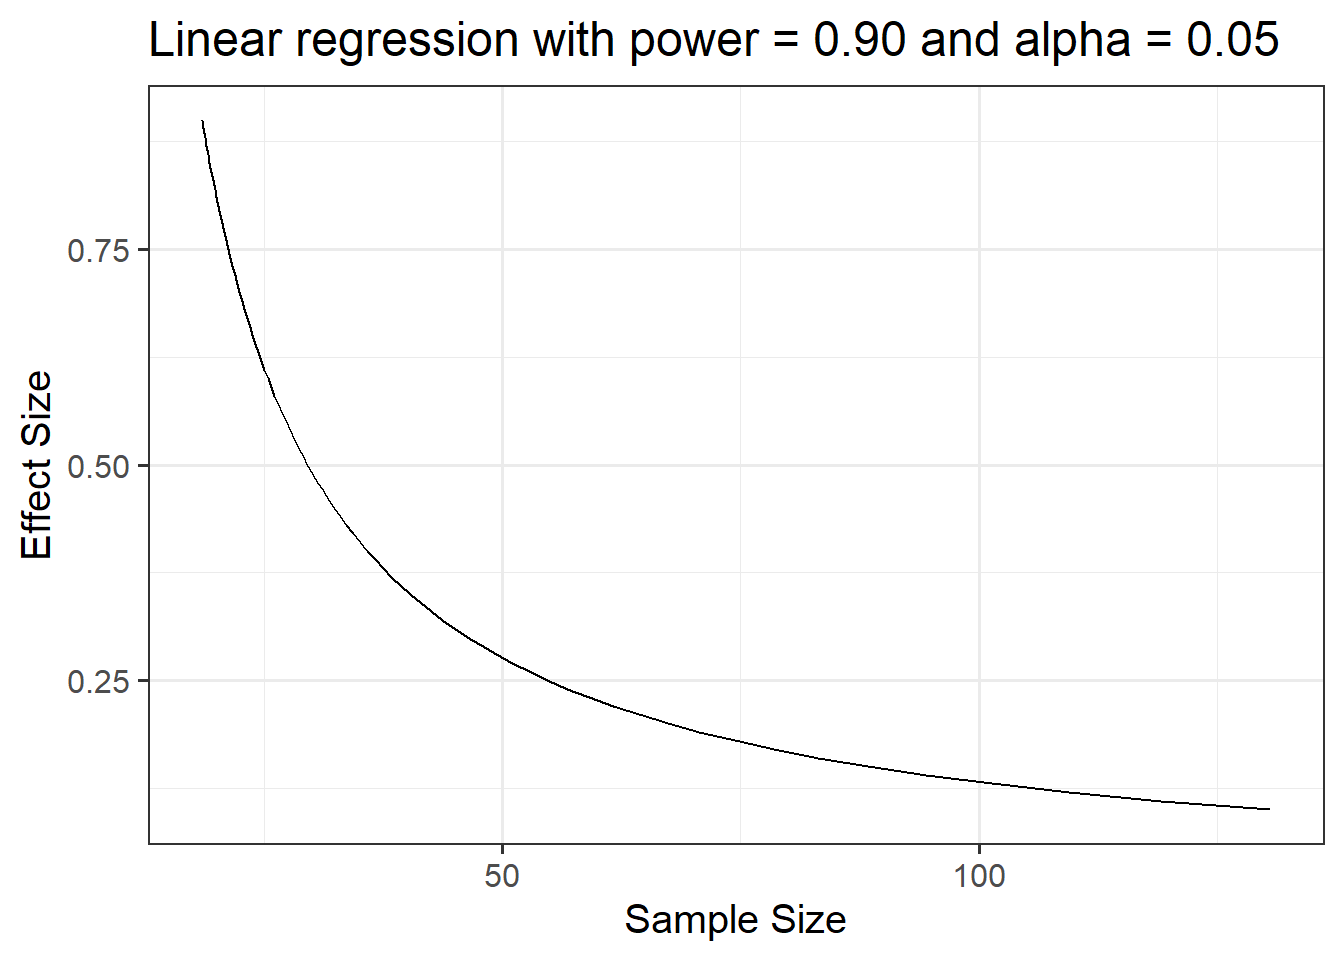
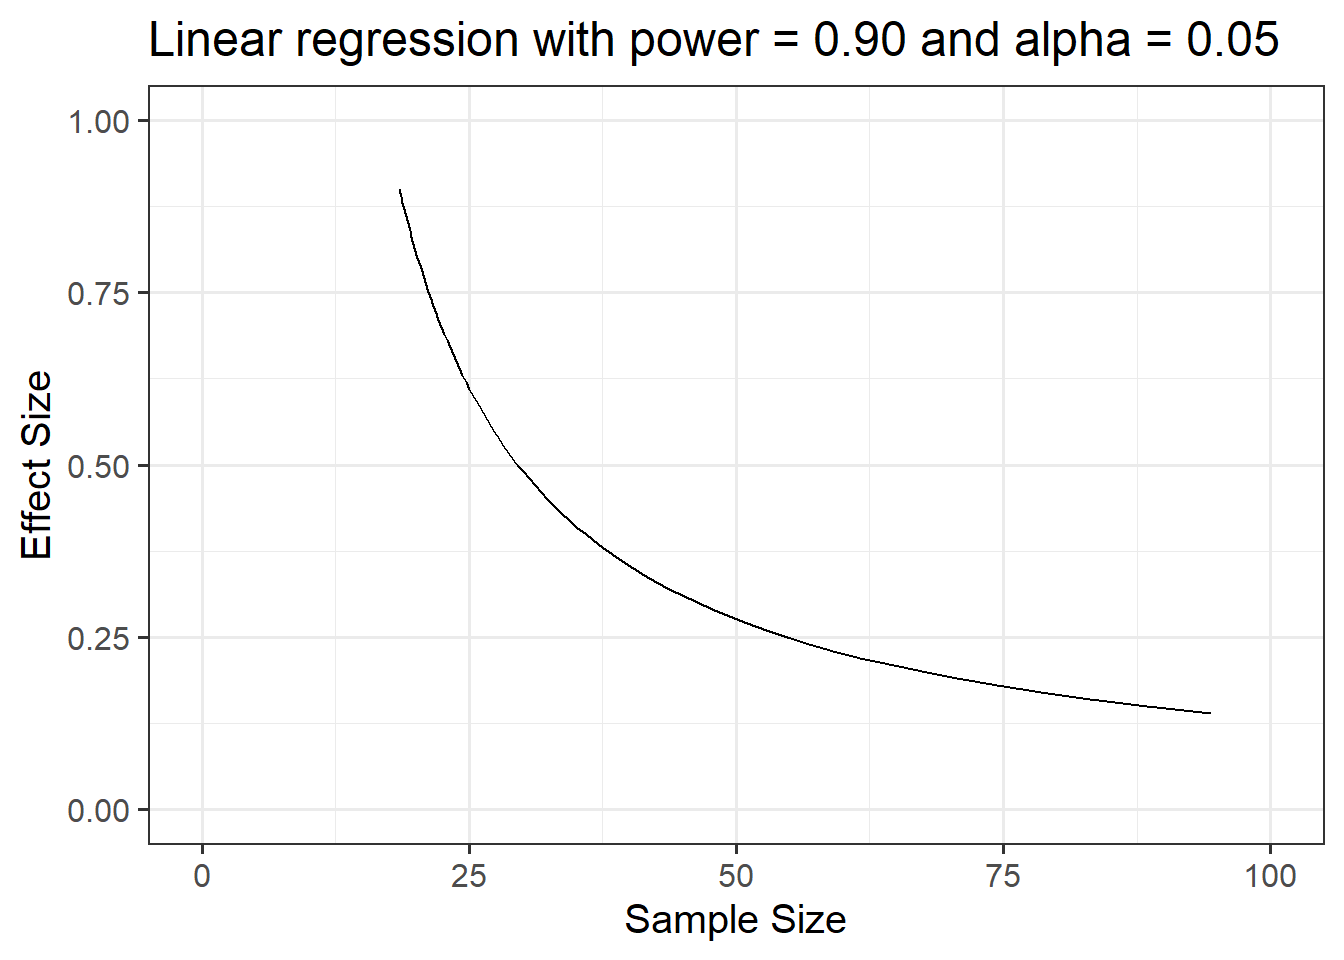
s2 w8 lab done
just need to push on Fri

diff --git a/docs/2223/labs/2_08_power.html b/docs/2223/labs/2_08_power.html
@@ -239,7 +239,10 @@ if(f.classList.contains('fa-chevron-circle-right')) {
     <a class="dropdown-item" href="./2_07_glm2.html">
  <span class="dropdown-text">2/7: More Logistic Regression</span></a>
   </li>  
-        <li class="dropdown-header">2/8: Sample Size &amp; Power Analysis</li>
+        <li>
+    <a class="dropdown-item" href="./2_08_power.html">
+ <span class="dropdown-text">2/8: Sample Size &amp; Power Analysis</span></a>
+  </li>  
         <li class="dropdown-header">2/9: Write Up &amp; Recap</li>
         <li class="dropdown-header">2/10: Mock Exam</li>
     </ul>
@@ -279,7 +282,6 @@ if(f.classList.contains('fa-chevron-circle-right')) {
 <i class="fa fa-graduation-cap"></i> Learning Objectives</h3>
 <p>At the end of this lab, you will:</p>
 <ol type="1">
-<li>Understand differences between Type I and Type II errors</li>
 <li>Understand how varying factors can influence power</li>
 <li>Be able to conduct power analyses using the <code>pwr</code> package</li>
 </ol></section><section id="what-you-need" class="level3"><h3 class="anchored" data-anchor-id="what-you-need">
@@ -1326,7 +1328,7 @@ Hint
 <span>    <span class="fu"><a href="https://dplyr.tidyverse.org/reference/summarise.html">summarise</a></span><span class="op">(</span></span>
 <span>       n <span class="op">=</span> <span class="fu"><a href="https://dplyr.tidyverse.org/reference/context.html">n</a></span><span class="op">(</span><span class="op">)</span>,</span>
 <span>       Avg_recall <span class="op">=</span> <span class="fu"><a href="https://rdrr.io/r/base/mean.html">mean</a></span><span class="op">(</span><span class="va">perc_recall</span><span class="op">)</span><span class="op">)</span> <span class="op"><a href="https://magrittr.tidyverse.org/reference/pipe.html">%&gt;%</a></span></span>
-<span>    <span class="fu"><a href="https://rdrr.io/pkg/knitr/man/kable.html">kable</a></span><span class="op">(</span>caption <span class="op">=</span> <span class="st">"Descriptive Statistics"</span><span class="op">)</span> <span class="op"><a href="https://magrittr.tidyverse.org/reference/pipe.html">%&gt;%</a></span></span>
+<span>    <span class="fu"><a href="https://rdrr.io/pkg/knitr/man/kable.html">kable</a></span><span class="op">(</span>caption <span class="op">=</span> <span class="st">"Descriptive Statistics"</span>, digits <span class="op">=</span> <span class="fl">2</span><span class="op">)</span> <span class="op"><a href="https://magrittr.tidyverse.org/reference/pipe.html">%&gt;%</a></span></span>
 <span>    <span class="fu"><a href="https://rdrr.io/pkg/kableExtra/man/kable_styling.html">kable_styling</a></span><span class="op">(</span><span class="op">)</span></span>
 <span></span>
 <span><span class="va">recall_stats</span></span></code></pre></div>
@@ -1344,12 +1346,12 @@ Hint
 <tr>
 <td style="text-align:left;"> rollercoaster </td>
    <td style="text-align:right;"> 53 </td>
-   <td style="text-align:right;"> 50.11124 </td>
+   <td style="text-align:right;"> 50.11 </td>
   </tr>
 <tr>
 <td style="text-align:left;"> meditation </td>
    <td style="text-align:right;"> 47 </td>
-   <td style="text-align:right;"> 59.46140 </td>
+   <td style="text-align:right;"> 59.46 </td>
   </tr>
 </tbody>
 </table>
@@ -1365,11 +1367,16 @@ Hint
 <div class="cell-output-display">
 <div id="fig-recall-desc1" class="quarto-figure quarto-figure-center anchored">
 <figure class="figure"><p><img src="2_08_power_files/figure-html/fig-recall-desc1-1.png" class="img-fluid figure-img" width="672"></p>
-<p></p><figcaption class="figure-caption">Figure&nbsp;1: Association between Age, Intervention, and Recall</figcaption><p></p>
+<p></p><figcaption class="figure-caption">Figure&nbsp;1: Association between Recall, Age, and Intervention</figcaption><p></p>
 </figure>
 </div>
 </div>
 </div>
+<p>From <a href="#tbl-cog-descript">Table&nbsp;1</a> and <a href="#fig-recall-desc1">Figure&nbsp;1</a>, we can see:</p>
+<ul>
+<li>there were more participants in the rollercoaster condition than meditation</li>
+<li>participants in the meditation condition had higher recall scores than those in the rollercoaster condition, and less variability in scores</li>
+</ul>
 </div>
 <p class="solution-end">
 </p>
@@ -1404,7 +1411,7 @@ Hint
 <code>v</code> = denominator degrees of freedom = <span class="math inline">\(v = n-k-1\)</span>
 </li>
 <li>
-<code>f2</code> = effect size. Cohen suggests <code>f2</code> values of <span class="math inline">\(.02\)</span> (small), <span class="math inline">\(.15\)</span> (moderate), and <span class="math inline">\(.35\)</span> (large)</li>
+<code>f2</code> = effect size. Cohen suggests effect size cut-off values of <span class="math inline">\(.02\)</span> (small), <span class="math inline">\(.15\)</span> (moderate), and <span class="math inline">\(.35\)</span> (large)</li>
 <li>
 <code>sig.level</code> = significance level</li>
 <li>
@@ -1444,6 +1451,7 @@ Hint
 Question 4
 </div>
 <div class="question-body">
+<p>Using the same <span class="math inline">\(\alpha\)</span> (.05) and power, what would be the sample size if you assumed effect size to be medium?</p>
 <div class="callout-tip callout callout-style-simple callout-captioned">
 <div class="callout-header d-flex align-content-center" data-bs-toggle="collapse" data-bs-target=".callout-3-contents" aria-controls="callout-3" aria-expanded="false" aria-label="Toggle callout">
 <div class="callout-icon-container">
@@ -1468,7 +1476,7 @@ Hint
 <code>v</code> = denominator degrees of freedom = <span class="math inline">\(v = n-k-1\)</span>
 </li>
 <li>
-<code>f2</code> = effect size. Cohen suggests <code>f2</code> values of <span class="math inline">\(.02\)</span> (small), <span class="math inline">\(.15\)</span> (moderate), and <span class="math inline">\(.35\)</span> (large)</li>
+<code>f2</code> = effect size. Cohen suggests effect size cut-off values of <span class="math inline">\(.02\)</span> (small), <span class="math inline">\(.15\)</span> (moderate), and <span class="math inline">\(.35\)</span> (large)</li>
 <li>
 <code>sig.level</code> = significance level</li>
 <li>
@@ -1477,7 +1485,6 @@ Hint
 </div>
 </div>
 </div>
-<p>Using the same <span class="math inline">\(\alpha\)</span> (.05) and power, what would be the sample size if you assumed effect size to be medium?</p>
 </div>
 <p class="question-end">
 </p>
@@ -1534,7 +1541,7 @@ Hint
 <code>v</code> = denominator degrees of freedom = <span class="math inline">\(v = n-k-1\)</span>
 </li>
 <li>
-<code>f2</code> = effect size. Cohen suggests <code>f2</code> values of <span class="math inline">\(.02\)</span> (small), <span class="math inline">\(.15\)</span> (moderate), and <span class="math inline">\(.35\)</span> (large)</li>
+<code>f2</code> = effect size. Cohen suggests effect size cut-off values of <span class="math inline">\(.02\)</span> (small), <span class="math inline">\(.15\)</span> (moderate), and <span class="math inline">\(.35\)</span> (large)</li>
 <li>
 <code>sig.level</code> = significance level</li>
 <li>
@@ -1608,17 +1615,9 @@ Residual standard error: 5.494 on 98 degrees of freedom
 Multiple R-squared:  0.1658,    Adjusted R-squared:  0.1573 
 F-statistic: 19.48 on 1 and 98 DF,  p-value: 2.614e-05</code></pre>
 </div>
-<div class="sourceCode" id="cb20"><pre class="downlit sourceCode r"><code class="sourceCode R"><span><span class="va">recall_mdl1</span><span class="op">$</span><span class="va">r.squared</span></span></code></pre></div>
-<div class="cell-output cell-output-stdout">
-<pre><code>NULL</code></pre>
 </div>
-<div class="sourceCode" id="cb22"><pre class="downlit sourceCode r"><code class="sourceCode R"><span><span class="va">recall_mdl1</span><span class="op">$</span><span class="va">adj.r.squared</span></span></code></pre></div>
-<div class="cell-output cell-output-stdout">
-<pre><code>NULL</code></pre>
-</div>
-</div>
-<p>We can use either R-squared or Adjusted R Squared since we only have a single predictor. To be conservative, we might want to use the adjusted R-squared: <span class="math inline">\(R^2 = 0.16\)</span>.</p>
-<p>The model explains 16% of the variance in recall scores.</p>
+<p>We can see both the R-squared or Adjusted R Squared from the model <code><a href="https://rdrr.io/r/base/summary.html">summary()</a></code> output. We can use either since we only have a single predictor. To be conservative, we might want to use the adjusted R-squared (0.16).</p>
+<p>The model, with Age as a single predictor, explained approximately 16% of the variance in recall scores.</p>
 </div>
 <p class="solution-end">
 </p>
@@ -1641,7 +1640,7 @@ Hint
 </div>
 <div id="callout-5" class="callout-5-contents callout-collapse collapse">
 <div class="callout-body-container callout-body">
-<p>consider using <code><a href="https://ggplot2.tidyverse.org/reference/geom_smooth.html">geom_smooth()</a></code> to superimpose the best-fitting line describing the association of interest for each intervention group.</p>
+<p>Consider using <code><a href="https://ggplot2.tidyverse.org/reference/geom_smooth.html">geom_smooth()</a></code> to superimpose the best-fitting line describing the association of interest for each intervention group.</p>
 </div>
 </div>
 </div>
@@ -1653,7 +1652,7 @@ Hint
 </div>
 <div id="sol-body-9" class="solution-body" style="display: none;">
 <div class="cell">
-<div class="sourceCode" id="cb24"><pre class="downlit sourceCode r"><code class="sourceCode R"><span><span class="va">recall_plt2</span> <span class="op">&lt;-</span> <span class="fu"><a href="https://ggplot2.tidyverse.org/reference/ggplot.html">ggplot</a></span><span class="op">(</span>data <span class="op">=</span> <span class="va">recdata</span>, <span class="fu"><a href="https://ggplot2.tidyverse.org/reference/aes.html">aes</a></span><span class="op">(</span>x <span class="op">=</span> <span class="va">age</span>, y <span class="op">=</span> <span class="va">perc_recall</span>, color <span class="op">=</span> <span class="va">group</span><span class="op">)</span><span class="op">)</span> <span class="op">+</span></span>
+<div class="sourceCode" id="cb20"><pre class="downlit sourceCode r"><code class="sourceCode R"><span><span class="va">recall_plt2</span> <span class="op">&lt;-</span> <span class="fu"><a href="https://ggplot2.tidyverse.org/reference/ggplot.html">ggplot</a></span><span class="op">(</span>data <span class="op">=</span> <span class="va">recdata</span>, <span class="fu"><a href="https://ggplot2.tidyverse.org/reference/aes.html">aes</a></span><span class="op">(</span>x <span class="op">=</span> <span class="va">age</span>, y <span class="op">=</span> <span class="va">perc_recall</span>, color <span class="op">=</span> <span class="va">group</span><span class="op">)</span><span class="op">)</span> <span class="op">+</span></span>
 <span>    <span class="fu"><a href="https://ggplot2.tidyverse.org/reference/geom_point.html">geom_point</a></span><span class="op">(</span><span class="op">)</span> <span class="op">+</span> </span>
 <span>    <span class="fu"><a href="https://ggplot2.tidyverse.org/reference/geom_smooth.html">geom_smooth</a></span><span class="op">(</span>method <span class="op">=</span> <span class="st">"lm"</span>, se <span class="op">=</span> <span class="cn">FALSE</span><span class="op">)</span> <span class="op">+</span> </span>
 <span>    <span class="fu"><a href="https://ggplot2.tidyverse.org/reference/labs.html">labs</a></span><span class="op">(</span>x <span class="op">=</span> <span class="st">"Age (in years)"</span>, y <span class="op">=</span> <span class="st">"Recall (%)"</span>, title <span class="op">=</span> <span class="st">"Scatterplot displaying the association between age, intervention group, and recall"</span><span class="op">)</span></span>
@@ -1686,7 +1685,7 @@ Question 8
 </div>
 <div id="sol-body-10" class="solution-body" style="display: none;">
 <div class="cell">
-<div class="sourceCode" id="cb25"><pre class="downlit sourceCode r"><code class="sourceCode R"><span><span class="co"># restricted model m - number of predictors &amp; R-squared</span></span>
+<div class="sourceCode" id="cb21"><pre class="downlit sourceCode r"><code class="sourceCode R"><span><span class="co"># restricted model m - number of predictors &amp; R-squared</span></span>
 <span><span class="va">k</span> <span class="op">&lt;-</span> <span class="fl">1</span></span>
 <span><span class="va">R2m</span> <span class="op">&lt;-</span> <span class="fl">0.16</span></span>
 <span></span>
@@ -1730,7 +1729,7 @@ Question 9
 </div>
 <div id="sol-body-11" class="solution-body" style="display: none;">
 <div class="cell">
-<div class="sourceCode" id="cb27"><pre class="downlit sourceCode r"><code class="sourceCode R"><span><span class="co"># restricted model m - number of predictors &amp; R-squared</span></span>
+<div class="sourceCode" id="cb23"><pre class="downlit sourceCode r"><code class="sourceCode R"><span><span class="co"># restricted model m - number of predictors &amp; R-squared</span></span>
 <span><span class="va">k</span> <span class="op">&lt;-</span> <span class="fl">1</span></span>
 <span><span class="va">R2m</span> <span class="op">&lt;-</span> <span class="fl">0.16</span></span>
 <span></span>
@@ -1764,32 +1763,14 @@ Question 9
 Question 10
 </div>
 <div class="question-body">
-<p>Visualise the joint relationship between sample size and effect size in Q9 by producing a power curve.</p>
-<p>To do so, apply the following computation:</p>
+<p>A colleague produces a visualisation of the joint relationship between sample size and effect size via a power curve (with coloured lines representing large, medium, and small effect sizes).</p>
+<p>Based on this, what feedback/comments might you share with them regarding sample size for their prospective study, and its relation to effect size?</p>
 <div class="cell">
-<div class="sourceCode" id="cb29"><pre class="downlit sourceCode r"><code class="sourceCode R"><span><span class="fu"><a href="https://purrr.tidyverse.org/reference/map.html">map_dbl</a></span><span class="op">(</span><span class="va">es</span>, </span>
-<span>        <span class="op">~</span> <span class="fu"><a href="https://rdrr.io/pkg/pwr/man/pwr.f2.test.html">pwr.f2.test</a></span><span class="op">(</span>u <span class="op">=</span> , f2 <span class="op">=</span> <span class="va">.x</span>, sig.level <span class="op">=</span> <span class="fl">0.05</span>, power <span class="op">=</span> <span class="fl">0.9</span><span class="op">)</span><span class="op">$</span><span class="va">v</span><span class="op">)</span></span></code></pre></div>
-</div>
-<div class="callout-tip callout callout-style-simple callout-captioned">
-<div class="callout-header d-flex align-content-center" data-bs-toggle="collapse" data-bs-target=".callout-6-contents" aria-controls="callout-6" aria-expanded="false" aria-label="Toggle callout">
-<div class="callout-icon-container">
-<i class="callout-icon"></i>
-</div>
-<div class="callout-caption-container flex-fill">
-Hint
-</div>
-<div class="callout-btn-toggle d-inline-block border-0 py-1 ps-1 pe-0 float-end"><i class="callout-toggle"></i></div>
-</div>
-<div id="callout-6" class="callout-6-contents callout-collapse collapse">
-<div class="callout-body-container callout-body">
-<p>There are a number of steps we need to take to produce a power curve:</p>
-<ul>
-<li>First, we create a tibble containing a sequence <code>seq</code> of effect sizes to investigate, ranging for example from 0.1 to 0.9 in steps of 0.01: <code>es = seq(.1, .9, .01)</code>.</li>
-<li>Then, for each value in that sequence, we want to apply the computation given to us above. This takes each element of <code>es</code>, one at a time, and then passes it to the computation specified afterwards, into the slot <code>.x</code>. Then, function <code>pwr.f2.test</code> is applied and we want to extract the value of <code>v</code>.</li>
-<li>Next, we want to compute <span class="math inline">\(n\)</span> from <code>v</code>, using <span class="math inline">\(n - K - 1 = \text v\)</span> so that <span class="math inline">\(n = \text v + K + 1\)</span>
-</li>
-<li>Lastly we can use <code><a href="https://ggplot2.tidyverse.org/reference/ggplot.html">ggplot()</a></code> to visualise the sample size required to find each effect size with sample size on our x-axis, and effect size on the y-axis</li>
-</ul>
+<div class="cell-output-display">
+<div id="fig-pcurve" class="quarto-figure quarto-figure-center anchored">
+<figure class="figure"><p><img src="2_08_power_files/figure-html/fig-pcurve-1.png" class="img-fluid figure-img" width="672"></p>
+<p></p><figcaption class="figure-caption">Figure&nbsp;3: Linear Regression with power = 0.90 and alpha = 0.05</figcaption><p></p>
+</figure>
 </div>
 </div>
 </div>
@@ -1800,60 +1781,9 @@ Hint
 <span id="sol-start-12" class="fa-solid fa-circle-arrow-right solution-icon clickable" onclick="toggle_visibility('sol-body-12', 'sol-start-12')"> Solution </span>
 </div>
 <div id="sol-body-12" class="solution-body" style="display: none;">
-<div class="cell">
-<div class="sourceCode" id="cb30"><pre class="downlit sourceCode r"><code class="sourceCode R"><span><span class="co">## step 1: create a tibble containing a sequence seq of effect sizes to investigate, and apply computation</span></span>
-<span><span class="va">es_curve</span> <span class="op">&lt;-</span> <span class="fu"><a href="https://tibble.tidyverse.org/reference/tibble.html">tibble</a></span><span class="op">(</span></span>
-<span>    es <span class="op">=</span> <span class="fu"><a href="https://rdrr.io/r/base/seq.html">seq</a></span><span class="op">(</span><span class="fl">.1</span>, <span class="fl">.9</span>, <span class="fl">.01</span><span class="op">)</span>,</span>
-<span>    v <span class="op">=</span> <span class="fu"><a href="https://purrr.tidyverse.org/reference/map.html">map_dbl</a></span><span class="op">(</span><span class="va">es</span>, </span>
-<span>                <span class="op">~</span> <span class="fu"><a href="https://rdrr.io/pkg/pwr/man/pwr.f2.test.html">pwr.f2.test</a></span><span class="op">(</span>u <span class="op">=</span>  <span class="va">K</span> <span class="op">-</span> <span class="va">k</span>, f2 <span class="op">=</span> <span class="va">.x</span>, sig.level <span class="op">=</span> <span class="fl">0.05</span>, power <span class="op">=</span> <span class="fl">0.9</span><span class="op">)</span><span class="op">$</span><span class="va">v</span><span class="op">)</span></span>
-<span><span class="op">)</span></span>
-<span><span class="va">es_curve</span></span></code></pre></div>
-<div class="cell-output cell-output-stdout">
-<pre><code># A tibble: 81 × 2
-      es     v
-   &lt;dbl&gt; &lt;dbl&gt;
- 1  0.1  127. 
- 2  0.11 115. 
- 3  0.12 106. 
- 4  0.13  97.4
- 5  0.14  90.5
- 6  0.15  84.4
- 7  0.16  79.2
- 8  0.17  74.5
- 9  0.18  70.4
-10  0.19  66.7
-# … with 71 more rows</code></pre>
-</div>
-<div class="sourceCode" id="cb32"><pre class="downlit sourceCode r"><code class="sourceCode R"><span><span class="co">## step 2: Now, we want to compute n from v, using n−K−1=v so that n=v+K+1</span></span>
-<span><span class="va">es_curve</span> <span class="op">&lt;-</span> <span class="va">es_curve</span> <span class="op"><a href="https://magrittr.tidyverse.org/reference/pipe.html">%&gt;%</a></span></span>
-<span>    <span class="fu"><a href="https://dplyr.tidyverse.org/reference/mutate.html">mutate</a></span><span class="op">(</span>n <span class="op">=</span> <span class="va">v</span> <span class="op">+</span> <span class="va">K</span> <span class="op">+</span> <span class="fl">1</span><span class="op">)</span></span>
-<span><span class="va">es_curve</span></span></code></pre></div>
-<div class="cell-output cell-output-stdout">
-<pre><code># A tibble: 81 × 3
-      es     v     n
-   &lt;dbl&gt; &lt;dbl&gt; &lt;dbl&gt;
- 1  0.1  127.  131. 
- 2  0.11 115.  119. 
- 3  0.12 106.  110. 
- 4  0.13  97.4 101. 
- 5  0.14  90.5  94.5
- 6  0.15  84.4  88.4
- 7  0.16  79.2  83.2
- 8  0.17  74.5  78.5
- 9  0.18  70.4  74.4
-10  0.19  66.7  70.7
-# … with 71 more rows</code></pre>
-</div>
-<div class="sourceCode" id="cb34"><pre class="downlit sourceCode r"><code class="sourceCode R"><span><span class="co">## step 3: visualise the sample size required to find each effect size</span></span>
-<span><span class="fu"><a href="https://ggplot2.tidyverse.org/reference/ggplot.html">ggplot</a></span><span class="op">(</span><span class="va">es_curve</span>, <span class="fu"><a href="https://ggplot2.tidyverse.org/reference/aes.html">aes</a></span><span class="op">(</span><span class="va">n</span>, <span class="va">es</span><span class="op">)</span><span class="op">)</span> <span class="op">+</span></span>
-<span>    <span class="fu"><a href="https://ggplot2.tidyverse.org/reference/geom_path.html">geom_line</a></span><span class="op">(</span><span class="op">)</span> <span class="op">+</span></span>
-<span>    <span class="fu"><a href="https://ggplot2.tidyverse.org/reference/labs.html">labs</a></span><span class="op">(</span>x <span class="op">=</span> <span class="st">"Sample Size"</span>,</span>
-<span>         y <span class="op">=</span> <span class="st">"Effect Size"</span>,</span>
-<span>         title <span class="op">=</span> <span class="st">"Linear regression with power = 0.90 and alpha = 0.05"</span><span class="op">)</span></span></code></pre></div>
-<div class="cell-output-display">
-<p><img src="2_08_power_files/figure-html/unnamed-chunk-18-1.png" class="img-fluid" width="672"></p>
-</div>
-</div>
+<p>From <a href="#fig-pcurve">Figure&nbsp;3</a>, to detect a large effect size (red line), they should aim to recruit ~50 participants, for a medium effect size ~100 (blue line). It is impossible to judge how many participants would be required to detect a small effect size (green line) - we would suggest that they conduct their own power calculation as it is too difficult to judge based on the figure alone.</p>
+<p>Generally, if they want to be able to detect a medium-large effect with 90% power using <span class="math inline">\(\alpha = .05\)</span>, it appears that there is little gain in recruiting a sample size &gt; ~110. However, if they want to be able to detect a small effect with 90% power using <span class="math inline">\(\alpha = .05\)</span>, they are likely going to require a very large sample size.</p>
+<p>To summarise the association between effect size and sample size, it appears that the smaller the effect you are trying to detect, the larger the sample size you will require.</p>
 </div>
 <p class="solution-end">
 </p>
